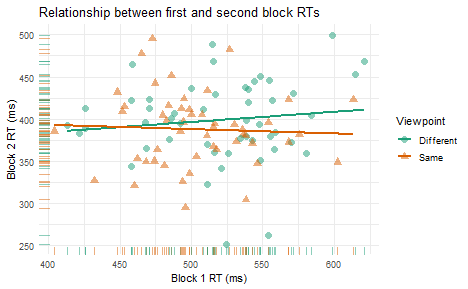
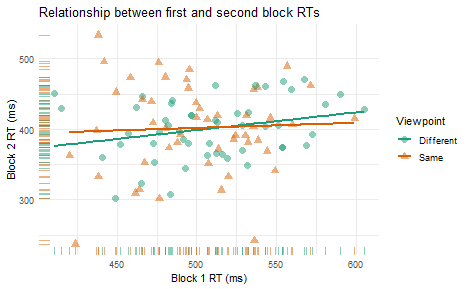
change date - week 5

diff --git a/docs/slides/Week-5-Exploring-data-graphically.html b/docs/slides/Week-5-Exploring-data-graphically.html
@@ -45,22 +45,22 @@ class: center, middle, inverse, title-slide
 ## # Groups:   Participant [8]
 ##    Participant Viewpoint  B1RT  B2RT
 ##          &lt;int&gt; &lt;chr&gt;     &lt;dbl&gt; &lt;dbl&gt;
-##  1           1 Different  555.  446.
-##  2           1 Same       504.  356.
-##  3           2 Different  548.  351.
-##  4           2 Same       432.  326.
-##  5           3 Different  570.  372.
-##  6           3 Same       500.  405.
-##  7           4 Different  555.  379.
-##  8           4 Same       493.  412.
-##  9           5 Different  458.  344.
-## 10           5 Same       498.  411.
-## 11           6 Different  492.  395.
-## 12           6 Same       515.  367.
-## 13           7 Different  539.  380.
-## 14           7 Same       568.  423.
-## 15           8 Different  538.  398.
-## 16           8 Same       530.  393.
+##  1           1 Different  491.  385.
+##  2           1 Same       523.  386.
+##  3           2 Different  511.  412.
+##  4           2 Same       572.  462.
+##  5           3 Different  581.  436.
+##  6           3 Same       483.  374.
+##  7           4 Different  568.  471.
+##  8           4 Same       536.  242.
+##  9           5 Different  513.  410.
+## 10           5 Same       495.  484.
+## 11           6 Different  441.  360.
+## 12           6 Same       544.  369.
+## 13           7 Different  497.  420.
+## 14           7 Same       481.  401.
+## 15           8 Different  525.  423.
+## 16           8 Same       599.  414.
 ```
 ]
 .pull-right[
